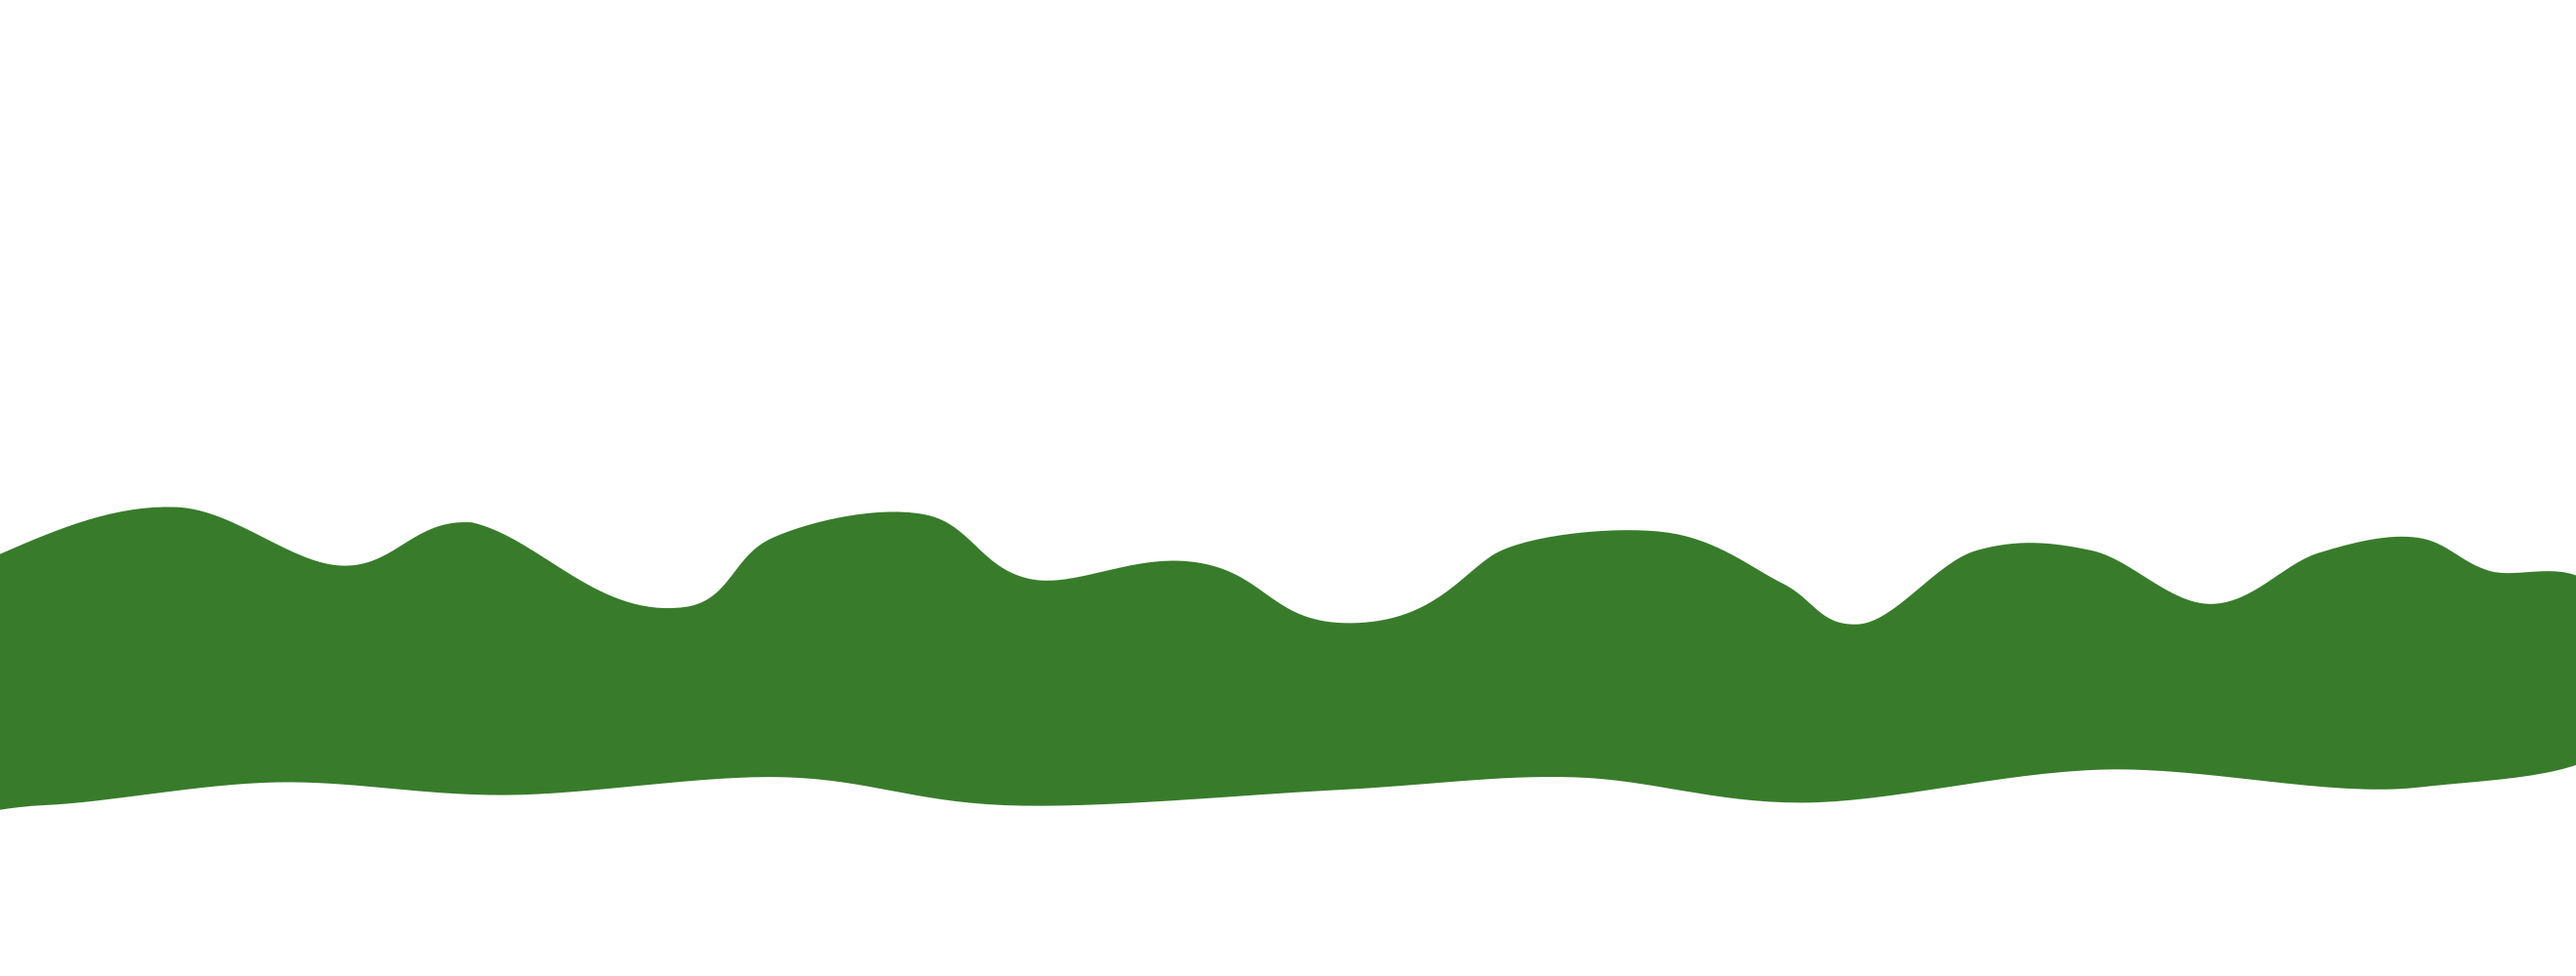
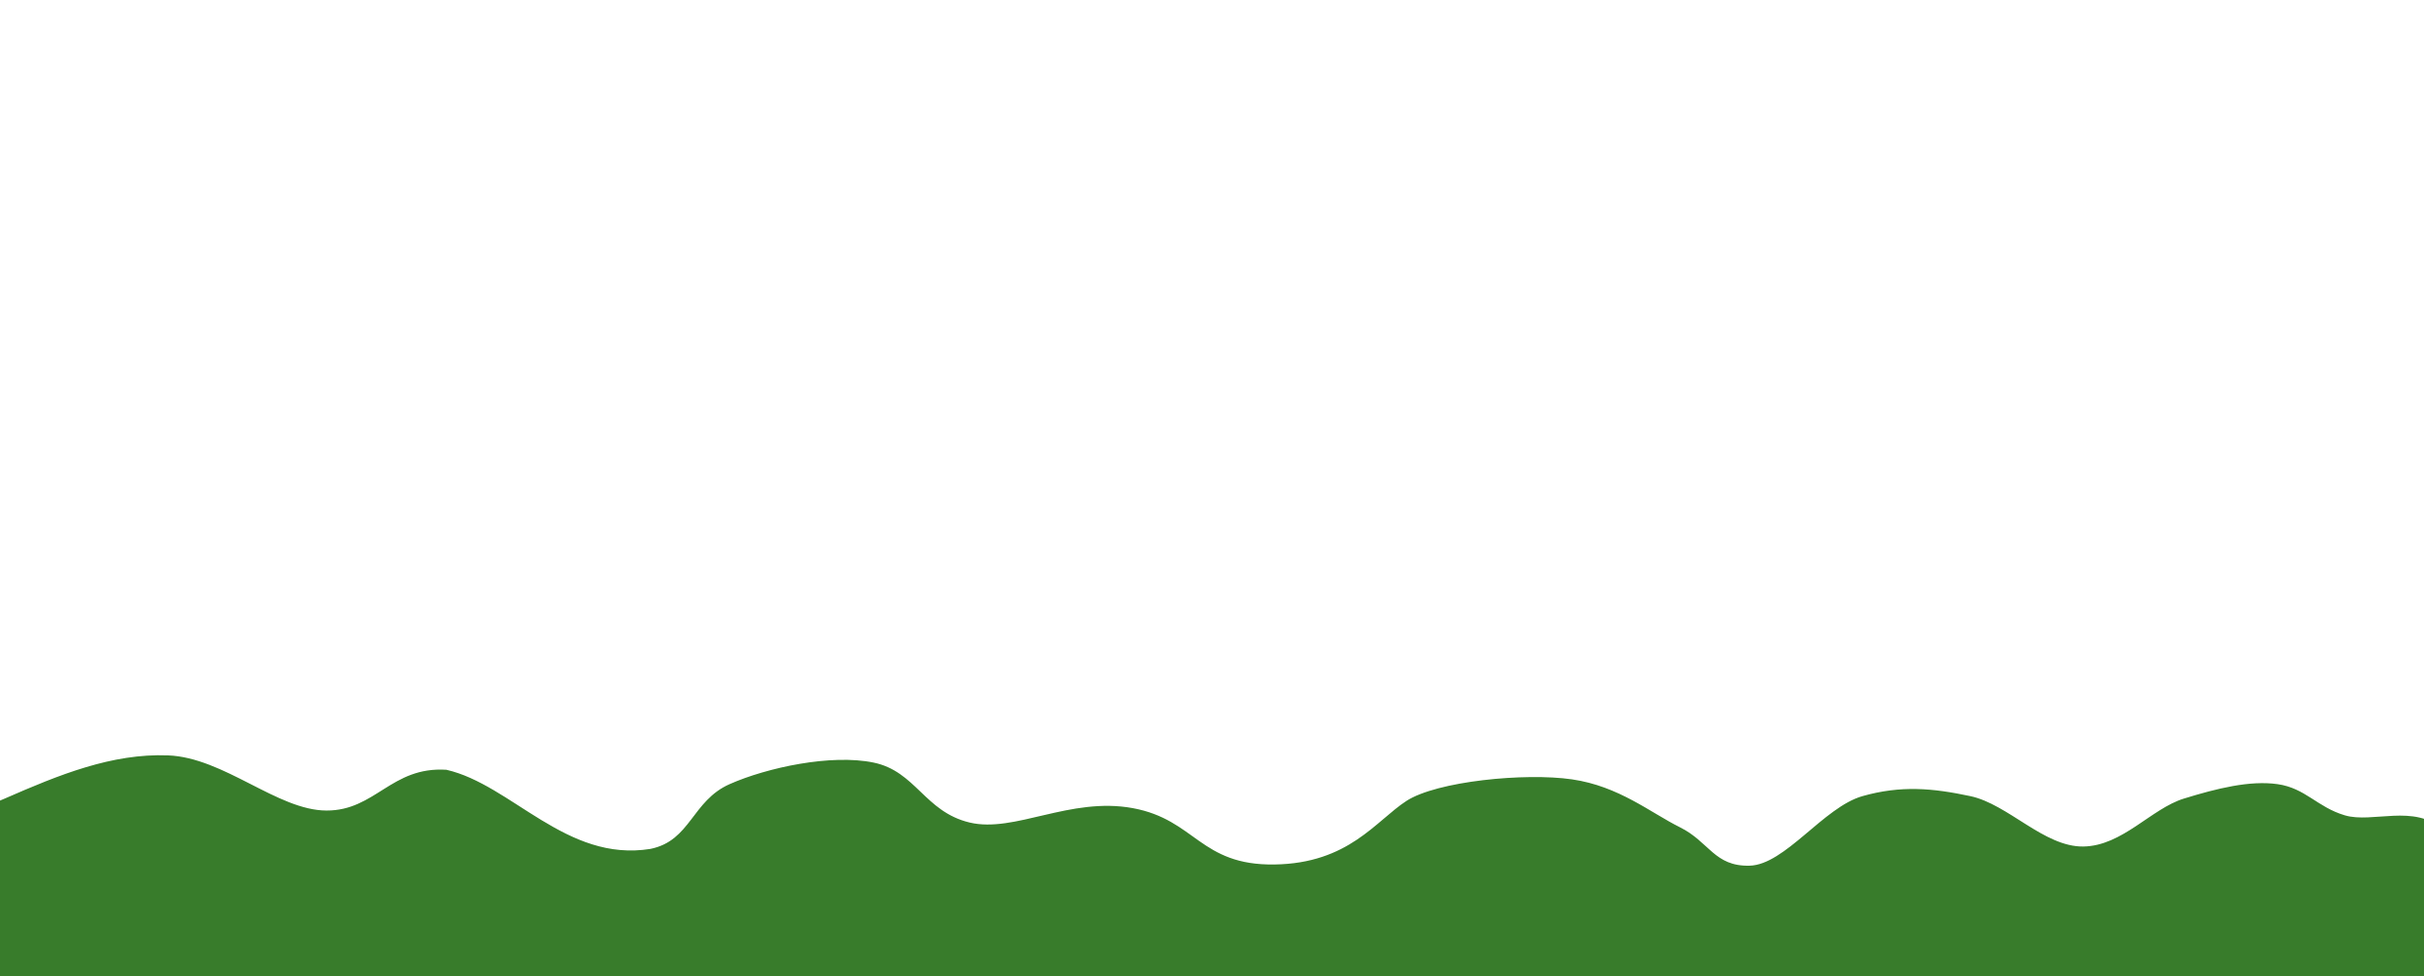
graphics changes + enemy

diff --git a/index.py b/index.py
@@ -6,6 +6,9 @@ from pygame import *
 from player import *
 from blocks import *
 from camera import *
+# 05/07/18 -->
+from enemy import *
+# 05/07/18 <--
 
 # screen variables -->
 win_width = 880
@@ -24,10 +27,10 @@ platforms = []
 # 30/06/2018 add -->
 class Background(sprite.Sprite):
     def __init__(self, x, y):
-        w, h = 5274,2000
+        w, h = 36,10
         sprite.Sprite.__init__(self)
         self.image = Surface((w, h))
-        self.image = image.load('graphics/bg_m.png')
+        self.image = image.load('graphics/bg_j_bg.png')
         self.rect = Rect(x, y, w, h)
 # 30/06/2018 add <--
 
@@ -79,7 +82,7 @@ def main():
     # screen initiation -->
     pygame.init()
     screen = pygame.display.set_mode(display)
-    pygame.display.set_caption('SMB')
+    pygame.display.set_caption('God of games')
     # screen initiation <--
 
     # background -->
@@ -87,8 +90,12 @@ def main():
     if moving:
         bg = Background(0,0)
         screen.blit(bg.image,(0,0))
-        bg_t = Background(0,0)
-        bg_t.image = image.load('graphics/bg_t.png')
+        bg_m = Background(0,0)
+        bg_m.image = image.load('graphics/bg_j_m.png')
+        bg_c = Background(0,0)
+        bg_c.image = image.load('graphics/bg_j_c.png')
+        bg_g = Background(0,0)
+        bg_g.image = image.load('graphics/bg_j_g.png')
     else:
         bg = Surface(display)
         bg.fill(background_color)
@@ -116,74 +123,6 @@ def main():
     platforms = []
     # animated_entities = pygame.sprite.Group()
     entities.add(hero)
-    '''
-    # 22/05/2018 upd <--
-
-    # 22/05/2018 upd -->
-    '''
-    level = [
-            "--------------",
-            "-            -",
-            "-   ---      -",
-            "-          ---",
-            "--           -",
-            "---   ----   -",
-            "-            -",
-            "-------     --",
-            "-        --  -",
-            "-            -",
-            "-     --     -",
-            "-          ---",
-            "---          -",
-            "--    ----   -",
-            "-            -",
-            "-------     --",
-            "-       ---  -",
-            "--------------",
-        ]
-        level = [
-            "----------------------------------------",
-            "-   -                                  -",
-            "-       -   -            --        -----",
-            "-        - -    - -                    -",
-            "-     -             --         -       -",
-            "-    -           -            -        -",
-            "-            -                -  -     -",
-            "-               -   --                 -",
-            "-          -     --           -       --",
-            "-       --   -                         -",
-            "---            -  -              - -   -",
-            "--         -      -  - -   -          --",
-            "-                               -      -",
-            "-                   -     -       -  - -",
-            "-              -               -       -",
-            "-         -    -            -          -",
-            "-            -                         -",
-            "--       -           -        -  --    -",
-            "-       -       -           -          -",
-            "-         --      -              -     -",
-            "-   -             -      - -          --",
-            "-           -               -          -",
-            "-    -- -     -     -            -     -",
-            "-                     --      -      - -",
-            "-    --     -                       -  -",
-            "-     -       -                        -",
-            "-                      -         -     -",
-            "-      --    -    -                    -",
-            "--              -     -                -",
-            "-- -          -                       --",
-            "-      -    -    -                    --",
-            "-          -   -         -          -  -",
-            "-                       --     -       -",
-            "-     -          - -  -  -       - -   -",
-            "-     -             -         -        -",
-            "-   -      -                        -  -",
-            "-                            -         -",
-            "-                                -    --",
-            "- -     _     -     *      -      -    -",
-            "-   --   -                 -      --   -",
-            "----------------------------------------"
-        ]
     '''
     # 22/05/2018 upd <--
 
@@ -231,8 +170,12 @@ def main():
     total_level_height = len(level)*platform_height
     camera = Camera(camera_configure, total_level_width, total_level_height)
 
+    # 05/07/18 -->
+    enemy = Enemy(50,total_level_height-blocks.platform_height - 95)
+    # 05/07/18 <--
+
     while 1:
-        timer.tick(60)
+        timer.tick(10000)
         for e in pygame.event.get():
             if e.type == QUIT:
                 raise SystemExit
@@ -263,7 +206,7 @@ def main():
         '''
         # 2906 replace
 
-        hero.update(left, right, up, running, platforms)
+        # hero.update(left, right, up, running, platforms)
         # animated_entities.update()
         # for e in moving_platforms:
         #     e.get_move()
@@ -273,14 +216,24 @@ def main():
         # 2906 replace -->
         if moving:
             screen.blit(bg.image, camera.apply(bg, smooth=0.5))
-            screen.blit(bg_t.image, camera.apply(bg_t, smooth=0.7))
+            screen.blit(bg_m.image, camera.apply(bg_m, smooth=0.7))
+            screen.blit(bg_c.image, camera.apply(bg_c, smooth=0.8))
+            screen.blit(bg_g.image, camera.apply(bg_g, smooth=0.9))
         else:
             screen.blit(bg_image, (0, 0))  # background drawing
+        
         # 2906 replace
         for e in entities:
             if isinstance(e, blocks.DeathMovingSaw):
                 e.get_move()
             screen.blit(e.image, camera.apply(e))
+        hero.update(left, right, up, running, platforms)
+
+        # 05/07/18 -->
+        enemy.move()
+        screen.blit(enemy.image, camera.apply(enemy))
+        # 05/07/18 <--
+
         # entities.draw(screen)
         '''
         entities.draw(screen)

diff --git a/player.py b/player.py
@@ -16,8 +16,8 @@ jump_extra_power = 2
 # 24.04.2018 add <--
 jump_power = 7
 gravity = 0.35
-width = 32
-height = 47
+width = 65
+height = 95
 color = (69, 69, 69)
 color = (255, 255, 255)
 # 2706 add -->
@@ -66,12 +66,14 @@ class Player(sprite.Sprite):
         self.onGround = False
 
         self.image = Surface((width, height))
-        self.image.fill(color)
+        # 05/07/2018 -->
+        # self.image.fill(color)
+        # 05/07/2018 <--
         self.rect = Rect(x, y, width, height)
 
         # animation -->
-        self.image.set_colorkey(color)
-
+        self.image.set_colorkey()
+        
         # 24.04.2018 upd -->
         bolt_anim = []
         bolt_anim_speed = []
@@ -79,8 +81,10 @@ class Player(sprite.Sprite):
             bolt_anim.append((anim, animation_delay))
             bolt_anim_speed.append((anim, animation_delay_speed))
         self.bolt_anim_right = pyganim.PygAnimation(bolt_anim)
+        self.bolt_anim_right.set_alpha()
         self.bolt_anim_right.play()
         self.bolt_anim_right_speed = pyganim.PygAnimation(bolt_anim_speed)
+        self.bolt_anim_right_speed.set_alpha()
         self.bolt_anim_right_speed.play()
         '''
         bolt_anim = []
@@ -98,8 +102,10 @@ class Player(sprite.Sprite):
             bolt_anim.append((anim, animation_delay))
             bolt_anim_speed.append((anim, animation_delay_speed))
         self.bolt_anim_left = pyganim.PygAnimation(bolt_anim)
+        self.bolt_anim_left.set_alpha()
         self.bolt_anim_left.play()
         self.bolt_anim_left_speed = pyganim.PygAnimation(bolt_anim_speed)
+        self.bolt_anim_left_speed.set_alpha()
         self.bolt_anim_left_speed.play()
         '''
         bolt_anim = []
@@ -135,8 +141,10 @@ class Player(sprite.Sprite):
             # 24.04.2018 upd -->
             if running:
                 self.xvel -= move_extra_speed
+                #self.bolt_anim_left_speed.set_y()
                 self.bolt_anim_left_speed.blit(self.image, (0, 0))
             else:
+                #self.bolt_anim_left.set_alpha()
                 self.bolt_anim_left.blit(self.image, (0, 0))
             '''
             self.bolt_anim_left.blit(self.image, (0, 0))

diff --git a/enemy.py b/enemy.py
@@ -1,0 +1,20 @@
+from pygame import *
+
+move_speed = 5
+width = 65
+height = 95
+
+class Enemy(sprite.Sprite):
+    def __init__(self, x, y):
+        sprite.Sprite.__init__(self)
+        self.xvel = 0
+        self.startX = x
+        self.startY = y
+
+        self.image = Surface((width, height))
+        self.image = image.load('graphics/hero/hero_l01.png')
+        self.rect = Rect(x, y, width, height)
+    
+    def move(self):
+        self.rect.x += 3
+        #self.image.blit(self.image, (self.rect.x, self.rect.y))
